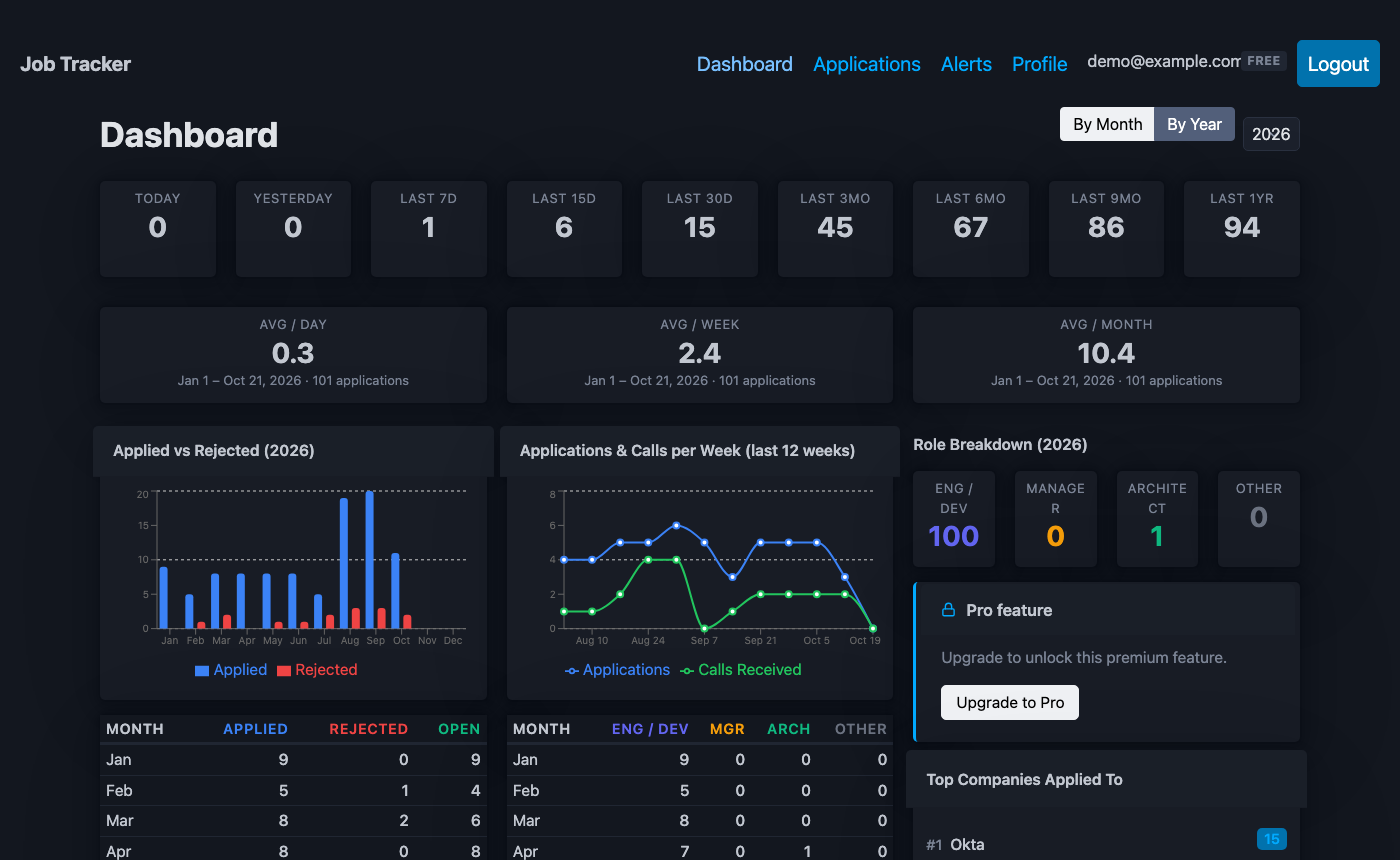
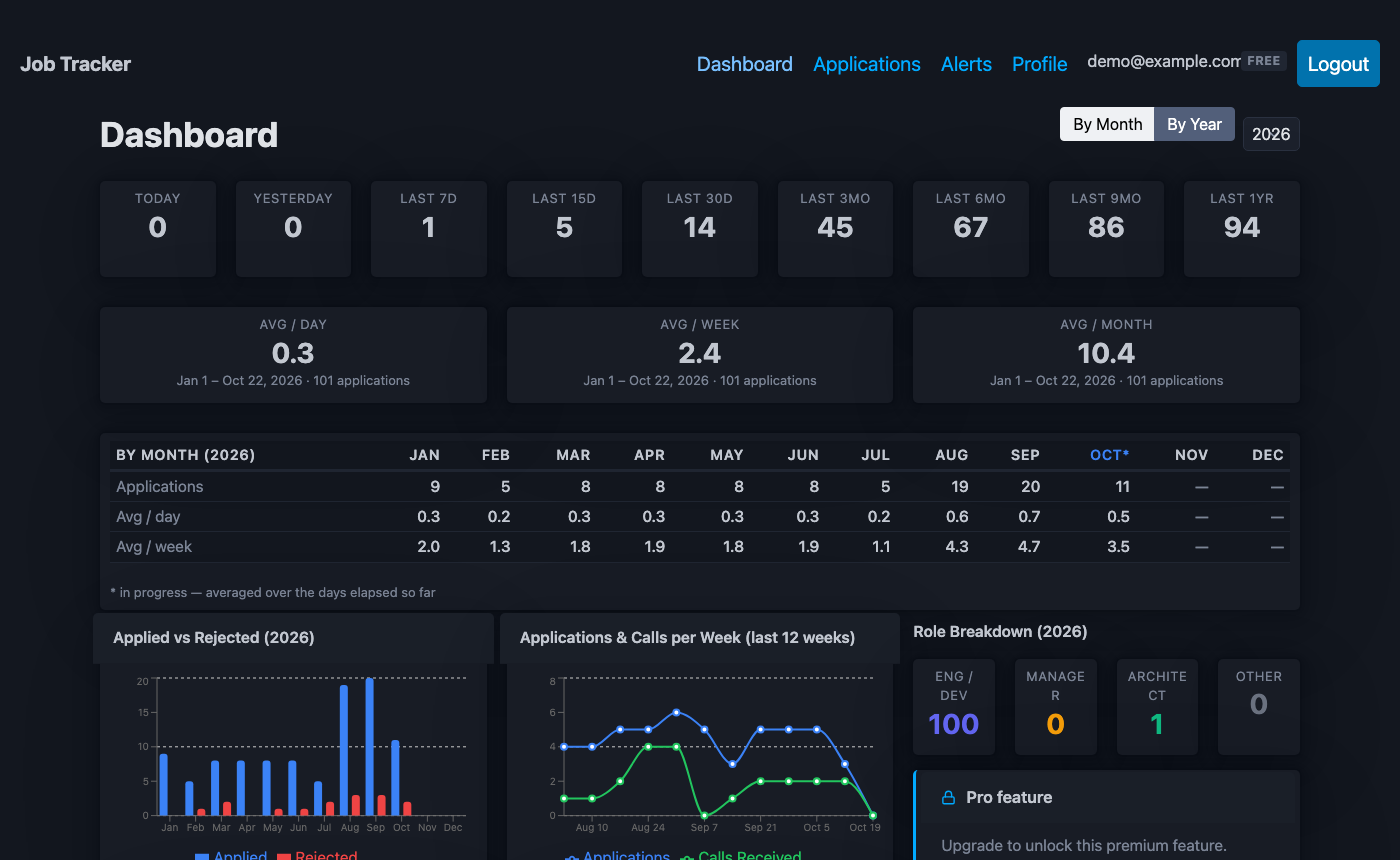
feat(stats): per-month and per-year averages table on the dashboard
- /v1/stats/averages now also returns `periods`: one row per calendar month
  (month view) or year (year view) with total, avg/day, avg/week, avg/month
- In-progress period flagged `partial` and averaged over days elapsed;
  later periods flagged `future`
- AverageCalculator.period() builds a row; unit tests added
- New AveragesByPeriod table under the Avg cards (Jan-Dec or years)
- README and dashboard screenshot updated

diff --git a/frontend/src/components/dashboard/AveragesByPeriod.tsx b/frontend/src/components/dashboard/AveragesByPeriod.tsx
@@ -1,0 +1,57 @@
+import type { Averages, AveragePeriod } from '../../api/stats'
+import { thStyle, tdStyle } from './styles'
+
+interface AveragesByPeriodProps {
+  averages: Averages | undefined
+  loading: boolean
+}
+
+export default function AveragesByPeriod({ averages, loading }: AveragesByPeriodProps) {
+  const periods = averages?.periods
+  if (loading || !periods || periods.length === 0) return null
+
+  const byYear = averages.groupBy === 'year'
+  const hasPartial = periods.some(p => p.partial)
+  const fmt = (p: AveragePeriod, v: number) => (p.future ? '—' : v.toFixed(1))
+
+  const rows: { label: string; value: (p: AveragePeriod) => string }[] = [
+    { label: 'Applications', value: p => (p.future ? '—' : String(p.total)) },
+    { label: 'Avg / day', value: p => fmt(p, p.dailyAverage) },
+    { label: 'Avg / week', value: p => fmt(p, p.weeklyAverage) },
+    ...(byYear ? [{ label: 'Avg / month', value: (p: AveragePeriod) => fmt(p, p.monthlyAverage) }] : []),
+  ]
+
+  return (
+    <article style={{ padding: '0.4rem 0.5rem', marginBottom: '0.5rem', overflowX: 'auto' }}>
+      <table style={{ width: '100%', borderCollapse: 'collapse', fontSize: '0.78rem' }}>
+        <thead>
+          <tr>
+            <th style={thStyle}>{byYear ? 'By year' : `By month (${averages.year})`}</th>
+            {periods.map(p => (
+              <th key={p.periodNum} style={{ ...thStyle, textAlign: 'right', color: p.partial ? '#3b82f6' : undefined }}>
+                {p.label}{p.partial ? '*' : ''}
+              </th>
+            ))}
+          </tr>
+        </thead>
+        <tbody>
+          {rows.map(r => (
+            <tr key={r.label}>
+              <td style={{ ...tdStyle, color: 'var(--pico-muted-color)' }}>{r.label}</td>
+              {periods.map(p => (
+                <td key={p.periodNum} style={{ ...tdStyle, textAlign: 'right', fontWeight: 500, color: p.future ? 'var(--pico-muted-color)' : undefined }}>
+                  {r.value(p)}
+                </td>
+              ))}
+            </tr>
+          ))}
+        </tbody>
+      </table>
+      {hasPartial && (
+        <div style={{ fontSize: '0.65rem', color: 'var(--pico-muted-color)', marginTop: '0.2rem' }}>
+          * in progress — averaged over the days elapsed so far
+        </div>
+      )}
+    </article>
+  )
+}

diff --git a/frontend/src/routes/Dashboard.tsx b/frontend/src/routes/Dashboard.tsx
@@ -5,6 +5,7 @@ import { getAiInsights } from '../api/ai'
 import DashboardHeader from '../components/dashboard/DashboardHeader'
 import OpenWindowsCards from '../components/dashboard/OpenWindowsCards'
 import AverageCards from '../components/dashboard/AverageCards'
+import AveragesByPeriod from '../components/dashboard/AveragesByPeriod'
 import AppliedVsRejectedChart from '../components/dashboard/AppliedVsRejectedChart'
 import WeeklyTrendChart from '../components/dashboard/WeeklyTrendChart'
 import RoleBreakdownTable from '../components/dashboard/RoleBreakdownTable'
@@ -108,6 +109,8 @@ export default function Dashboard() {
       <OpenWindowsCards windows={windows} loading={loading} />
 
       {!USE_MOCK && <AverageCards averages={averages} loading={averagesLoading} />}
+
+      {!USE_MOCK && <AveragesByPeriod averages={averages} loading={averagesLoading} />}
 
       {error && <article><header>Error</header><p>{error}</p></article>}
       {loading && <article aria-busy="true"><p>Loading…</p></article>}

diff --git a/frontend/src/api/stats.ts b/frontend/src/api/stats.ts
@@ -25,6 +25,17 @@ export async function getTrend(period = 'week', weeks = 12): Promise<TrendPoint[
   return res.data.points
 }
 
+export interface AveragePeriod {
+  label: string
+  periodNum: number
+  total: number
+  dailyAverage: number
+  weeklyAverage: number
+  monthlyAverage: number
+  partial: boolean
+  future: boolean
+}
+
 export interface Averages {
   groupBy: 'month' | 'year'
   year: number | null
@@ -34,6 +45,7 @@ export interface Averages {
   dailyAverage: number
   weeklyAverage: number
   monthlyAverage: number
+  periods?: AveragePeriod[]
   generatedAt: string
 }
 

diff --git a/backend/stats-service/src/main/java/com/jobtracker/stats/service/StatsService.java b/backend/stats-service/src/main/java/com/jobtracker/stats/service/StatsService.java
@@ -1,6 +1,7 @@
 package com.jobtracker.stats.service;
 
 import com.jobtracker.stats.api.dto.ActivityItemDto;
+import com.jobtracker.stats.api.dto.AveragePeriodDto;
 import com.jobtracker.stats.api.dto.AveragesDto;
 import com.jobtracker.stats.api.dto.BreakdownResponseDto;
 import com.jobtracker.stats.api.dto.CompanyCountDto;
@@ -146,7 +147,43 @@ public class StatsService {
                 byMonth ? start.getYear() : null,
                 start.format(DATE_FMT), end.format(DATE_FMT),
                 total, r.daily(), r.weekly(), r.monthly(),
+                buildPeriods(userId, byMonth, start, today),
                 OffsetDateTime.now().toString());
+    }
+
+    private List<AveragePeriodDto> buildPeriods(UUID userId, boolean byMonth, LocalDate start, LocalDate today) {
+        String[] labels = {"Jan","Feb","Mar","Apr","May","Jun","Jul","Aug","Sep","Oct","Nov","Dec"};
+        List<AveragePeriodDto> rows = new ArrayList<>();
+
+        if (byMonth) {
+            int y = start.getYear();
+            Map<Integer, Long> totals = new HashMap<>();
+            jdbc.query(
+                    "SELECT month, SUM(cnt) FROM agg_monthly WHERE user_id=? AND year=? GROUP BY month",
+                    (RowCallbackHandler) rs -> totals.put(rs.getInt(1), rs.getLong(2)),
+                    userId, y);
+            for (int m = 1; m <= 12; m++) {
+                LocalDate first = LocalDate.of(y, m, 1);
+                rows.add(AverageCalculator.period(labels[m - 1], m, totals.getOrDefault(m, 0L),
+                        first, first.withDayOfMonth(first.lengthOfMonth()), today));
+            }
+        } else {
+            Map<Integer, Long> totals = new HashMap<>();
+            jdbc.query(
+                    "SELECT year, SUM(cnt) FROM agg_monthly WHERE user_id=? GROUP BY year",
+                    (RowCallbackHandler) rs -> totals.put(rs.getInt(1), rs.getLong(2)),
+                    userId);
+            if (!totals.isEmpty()) {
+                // Contiguous years from the first year with data through the current year.
+                // The first (oldest) year is averaged from its first month with data, as in the all-time card.
+                for (int y = start.getYear(); y <= today.getYear(); y++) {
+                    LocalDate from = (y == start.getYear()) ? start : LocalDate.of(y, 1, 1);
+                    rows.add(AverageCalculator.period(String.valueOf(y), y, totals.getOrDefault(y, 0L),
+                            from, LocalDate.of(y, 12, 31), today));
+                }
+            }
+        }
+        return rows;
     }
 
     private static long nz(Long v) {

diff --git a/backend/stats-service/src/main/java/com/jobtracker/stats/service/AverageCalculator.java b/backend/stats-service/src/main/java/com/jobtracker/stats/service/AverageCalculator.java
@@ -1,5 +1,7 @@
 package com.jobtracker.stats.service;
 
+import com.jobtracker.stats.api.dto.AveragePeriodDto;
+
 import java.time.LocalDate;
 import java.time.YearMonth;
 
@@ -33,6 +35,22 @@ final class AverageCalculator {
                 round1(total / (double) days),
                 round1(total / (days / 7.0)),
                 round1(total / months));
+    }
+
+    /**
+     * Row for one whole calendar period [periodStart, periodEnd]. The part of the period
+     * that is still in the future is ignored: a period starting after {@code today} is
+     * flagged future (zeros); one that ends after {@code today} is flagged partial and
+     * averaged over the days elapsed so far.
+     */
+    static AveragePeriodDto period(String label, int periodNum, long total,
+                                   LocalDate periodStart, LocalDate periodEnd, LocalDate today) {
+        if (periodStart.isAfter(today)) {
+            return new AveragePeriodDto(label, periodNum, total, 0, 0, 0, false, true);
+        }
+        boolean partial = periodEnd.isAfter(today);
+        Result r = compute(total, periodStart, partial ? today : periodEnd);
+        return new AveragePeriodDto(label, periodNum, total, r.daily(), r.weekly(), r.monthly(), partial, false);
     }
 
     static double round1(double v) {

diff --git a/backend/stats-service/src/test/java/com/jobtracker/stats/service/AverageCalculatorTest.java b/backend/stats-service/src/test/java/com/jobtracker/stats/service/AverageCalculatorTest.java
@@ -48,4 +48,32 @@ class AverageCalculatorTest {
         assertEquals(2.0, r.daily());
         assertEquals(14.0, r.weekly());
     }
+
+    @Test
+    void periodFlagsInProgressMonthAndProRatesIt() {
+        // October 2026 with today = Oct 22: 22 days elapsed of 31
+        var p = AverageCalculator.period("Oct", 10, 22,
+                LocalDate.of(2026, 10, 1), LocalDate.of(2026, 10, 31), LocalDate.of(2026, 10, 22));
+        assertEquals(true, p.partial());
+        assertEquals(false, p.future());
+        assertEquals(1.0, p.dailyAverage());
+        assertEquals(7.0, p.weeklyAverage());
+    }
+
+    @Test
+    void periodForCompletedMonthUsesFullMonth() {
+        // March 2026 (31 days): 62 applications -> 2.0/day
+        var p = AverageCalculator.period("Mar", 3, 62,
+                LocalDate.of(2026, 3, 1), LocalDate.of(2026, 3, 31), LocalDate.of(2026, 10, 22));
+        assertEquals(false, p.partial());
+        assertEquals(2.0, p.dailyAverage());
+    }
+
+    @Test
+    void periodAfterTodayIsFutureWithZeros() {
+        var p = AverageCalculator.period("Dec", 12, 0,
+                LocalDate.of(2026, 12, 1), LocalDate.of(2026, 12, 31), LocalDate.of(2026, 10, 22));
+        assertEquals(true, p.future());
+        assertEquals(0.0, p.dailyAverage());
+    }
 }

diff --git a/backend/stats-service/src/main/java/com/jobtracker/stats/api/dto/AveragePeriodDto.java b/backend/stats-service/src/main/java/com/jobtracker/stats/api/dto/AveragePeriodDto.java
@@ -1,0 +1,13 @@
+package com.jobtracker.stats.api.dto;
+
+/** Averages for one calendar month (month view) or one calendar year (year view). */
+public record AveragePeriodDto(
+        String label,
+        int periodNum,
+        long total,
+        double dailyAverage,
+        double weeklyAverage,
+        double monthlyAverage,
+        boolean partial,
+        boolean future
+) {}

diff --git a/backend/stats-service/src/main/java/com/jobtracker/stats/api/dto/AveragesDto.java b/backend/stats-service/src/main/java/com/jobtracker/stats/api/dto/AveragesDto.java
@@ -1,5 +1,7 @@
 package com.jobtracker.stats.api.dto;
 
+import java.util.List;
+
 public record AveragesDto(
         String groupBy,
         Integer year,
@@ -9,5 +11,6 @@ public record AveragesDto(
         double dailyAverage,
         double weeklyAverage,
         double monthlyAverage,
+        List<AveragePeriodDto> periods,
         String generatedAt
 ) {}

diff --git a/README.md b/README.md
@@ -182,7 +182,7 @@ This is the **Transactional Outbox Pattern** — Kafka being down never causes d
 - **Activity Feed** — Each Application Detail page shows a live activity timeline. Every create, status update, and deletion is translated into a human-readable message (e.g. "Applied for SWE at Google via LinkedIn", "Status changed to OFFER") and stored in the `activity_feed` table. Powered by Kafka fan-out: a second consumer group (`activity-service`) runs in `stats-listener` alongside the existing `stats-service` group, tracking independent offsets on the same `application-events` topic — no producer changes required. Idempotent via a unique constraint on `(app_id, event_type, occurred_at)`
 - **AI Insights (RAG-grounded)** *(Premium)* — The Dashboard includes an "AI Insights" card powered by a locally-running LLM (Ollama + `qwen2.5:1.5b`) and a **retrieval-augmented generation pipeline**, not just aggregate numbers. On each request, **`ai-service`** (port 8085) syncs a per-user vector index in Postgres/pgvector (`jt_ai`) from live application data pulled from `applications-service` — company, role, status, salary, dates, tags, free-text notes, and the full status-change timeline — via a dedicated `GET /v1/applications/context` endpoint (forwarding the caller's JWT). Each application is embedded with Ollama's `nomic-embed-text` model; a SHA-256 content hash means only applications that actually changed since the last sync are re-embedded. At generation time, the service runs targeted similarity searches (ghosting/stalled applications, fast-moving applications, notable notes/red flags), merges the retrieved records with per-user aggregate stats, and asks the chat model for 3–5 concise, actionable insights grounded in the user's real data — not just restated counts. Endpoint: `POST /v1/ai/insights`. Fully offline — no API key required
 - **Smart Create (Natural-Language Application Entry)** *(Premium)* — On the New Application page, a "✦ Smart create with AI" section accepts a free-text sentence like *"Today I applied to a senior engineer position at Microsoft using LinkedIn with a salary range of $100,000 to $200,000"* and extracts a structured DTO (company, role, status, source, salary range, currency, applied date, location, job link, tags, notes). The same `ai-service` handles the parsing: `POST /v1/ai/applications/parse` returns parsed fields **without persisting** so the user can review and edit the form before saving via the existing create flow. The frontend merges parsed values non-destructively (never overwrites a field the user has already typed). Built on the same Spring AI `ChatClient` + Ollama stack as AI Insights — fully offline, no API key
-- **Analytics Dashboard** — By Month / By Year toggle with grouped Applied vs Rejected bar chart, summary table, open-window KPI cards (today through last 1yr), **Avg / day · Avg / week · Avg / month** cards that follow the By Month / By Year toggle (the selected calendar year, or all time since your first application; the in-progress period is pro-rated to today), and a **Top Companies** widget ranking the top 10 companies by application count with a relative fill bar for quick visual comparison
+- **Analytics Dashboard** — By Month / By Year toggle with grouped Applied vs Rejected bar chart, summary table, open-window KPI cards (today through last 1yr), **Avg / day · Avg / week · Avg / month** cards that follow the By Month / By Year toggle (the selected calendar year, or all time since your first application; the in-progress period is pro-rated to today), a **per-month / per-year averages table** (applications, avg per day and per week for each month — e.g. "what was my October average?" — or each year), and a **Top Companies** widget ranking the top 10 companies by application count with a relative fill bar for quick visual comparison
 - **Pre-computed aggregate tables** — `agg_monthly` and `agg_weekly` in `jt_stats` are maintained in-sync by stats-listener (recomputed atomically on every Kafka event); stats-service reads from these tables with indexed scans instead of live GROUP BY on the raw snapshot
 - **Redis caching** — The stats endpoints (`/summary`, `/trend`, `/breakdown`, `/averages`) are cached in Redis with a 5-minute TTL, keyed per-user; the stats-listener evicts the affected user's cache keys immediately after processing each Kafka event, so the dashboard always reflects the latest data
 - **Idempotent writes** — All POST/PATCH endpoints require an `Idempotency-Key` header
@@ -273,8 +273,10 @@ Response: { period, points: [{ start, end, count }] }
 
 GET /v1/stats/averages?groupBy=month&year=2025
 GET /v1/stats/averages?groupBy=year
-Response: { groupBy, year, periodStart, periodEnd, total, dailyAverage, weeklyAverage, monthlyAverage, generatedAt }
+Response: { groupBy, year, periodStart, periodEnd, total, dailyAverage, weeklyAverage, monthlyAverage,
+            periods: [{ label, periodNum, total, dailyAverage, weeklyAverage, monthlyAverage, partial, future }], generatedAt }
 // groupBy=month: Jan 1 of `year` through Dec 31 (or today, if the year is in progress); groupBy=year: first month with data through today.
+// periods: one row per calendar month (month view) or year (year view); the current one has partial=true, later months future=true.
 // Averages divide by elapsed days / weeks / months; a partial month counts as elapsedDays / daysInMonth.
 
 GET /v1/stats/breakdown?groupBy=month&year=2025&tz=America/Phoenix
